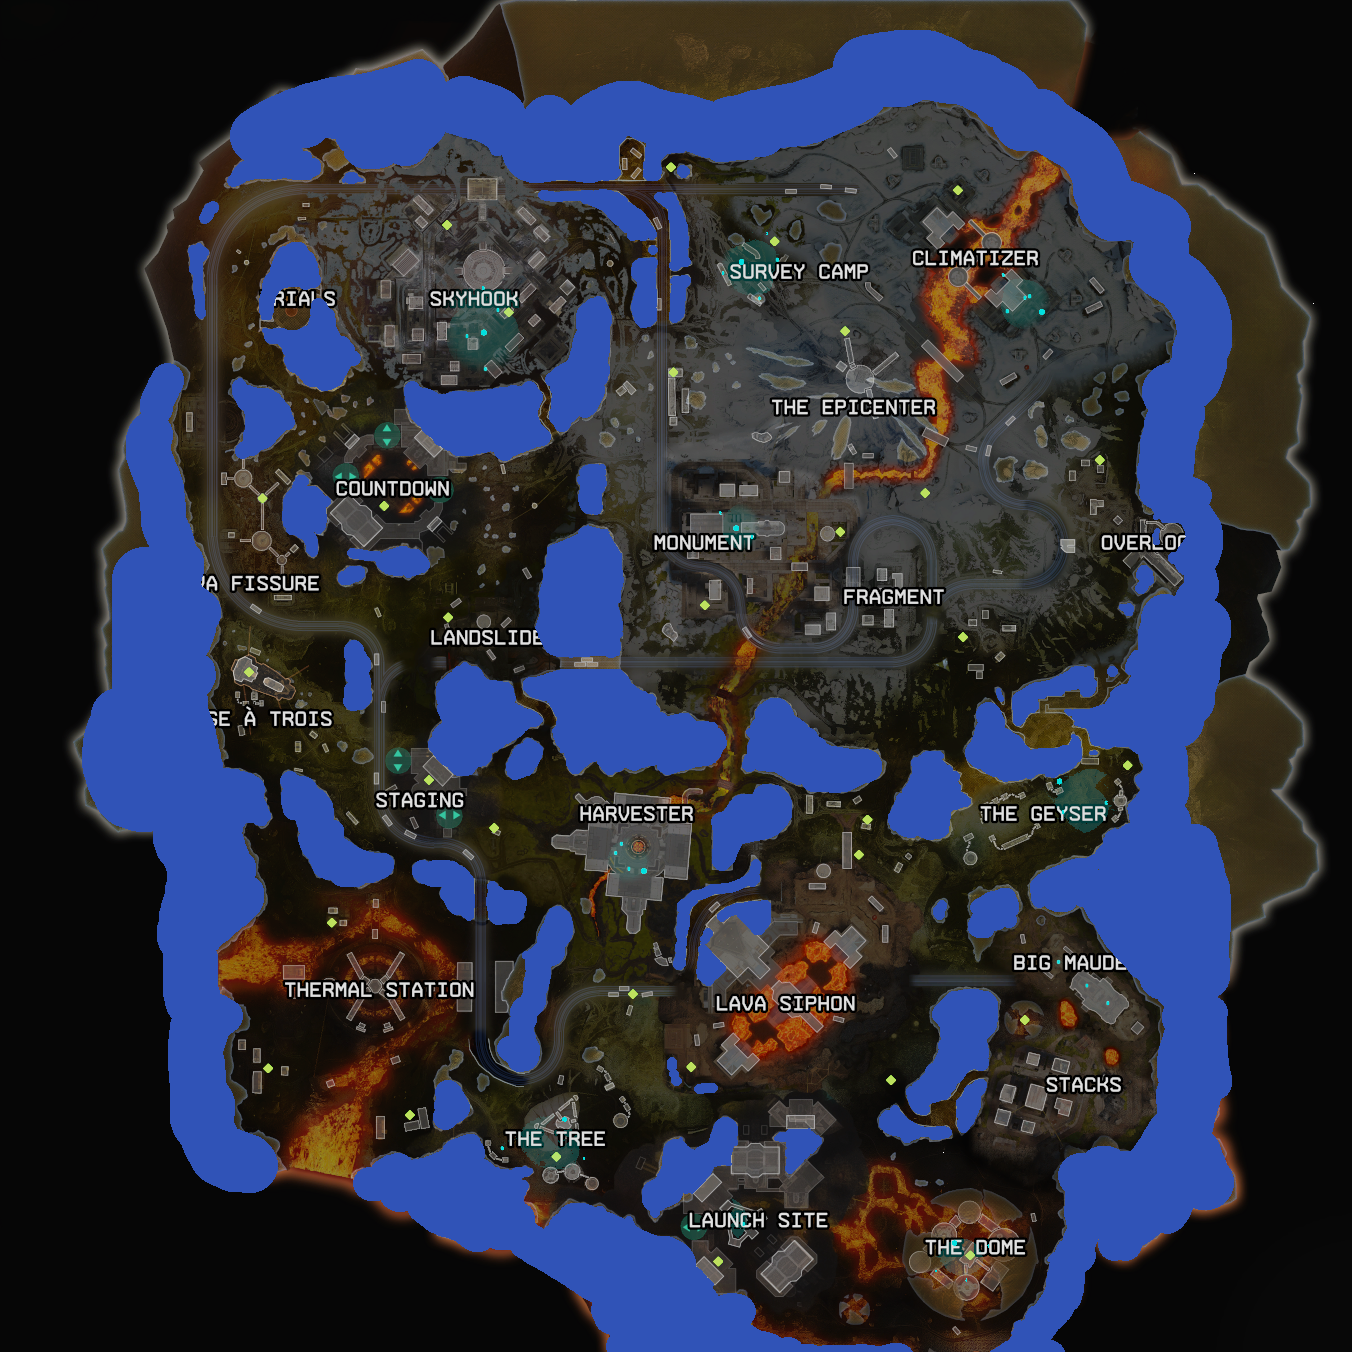
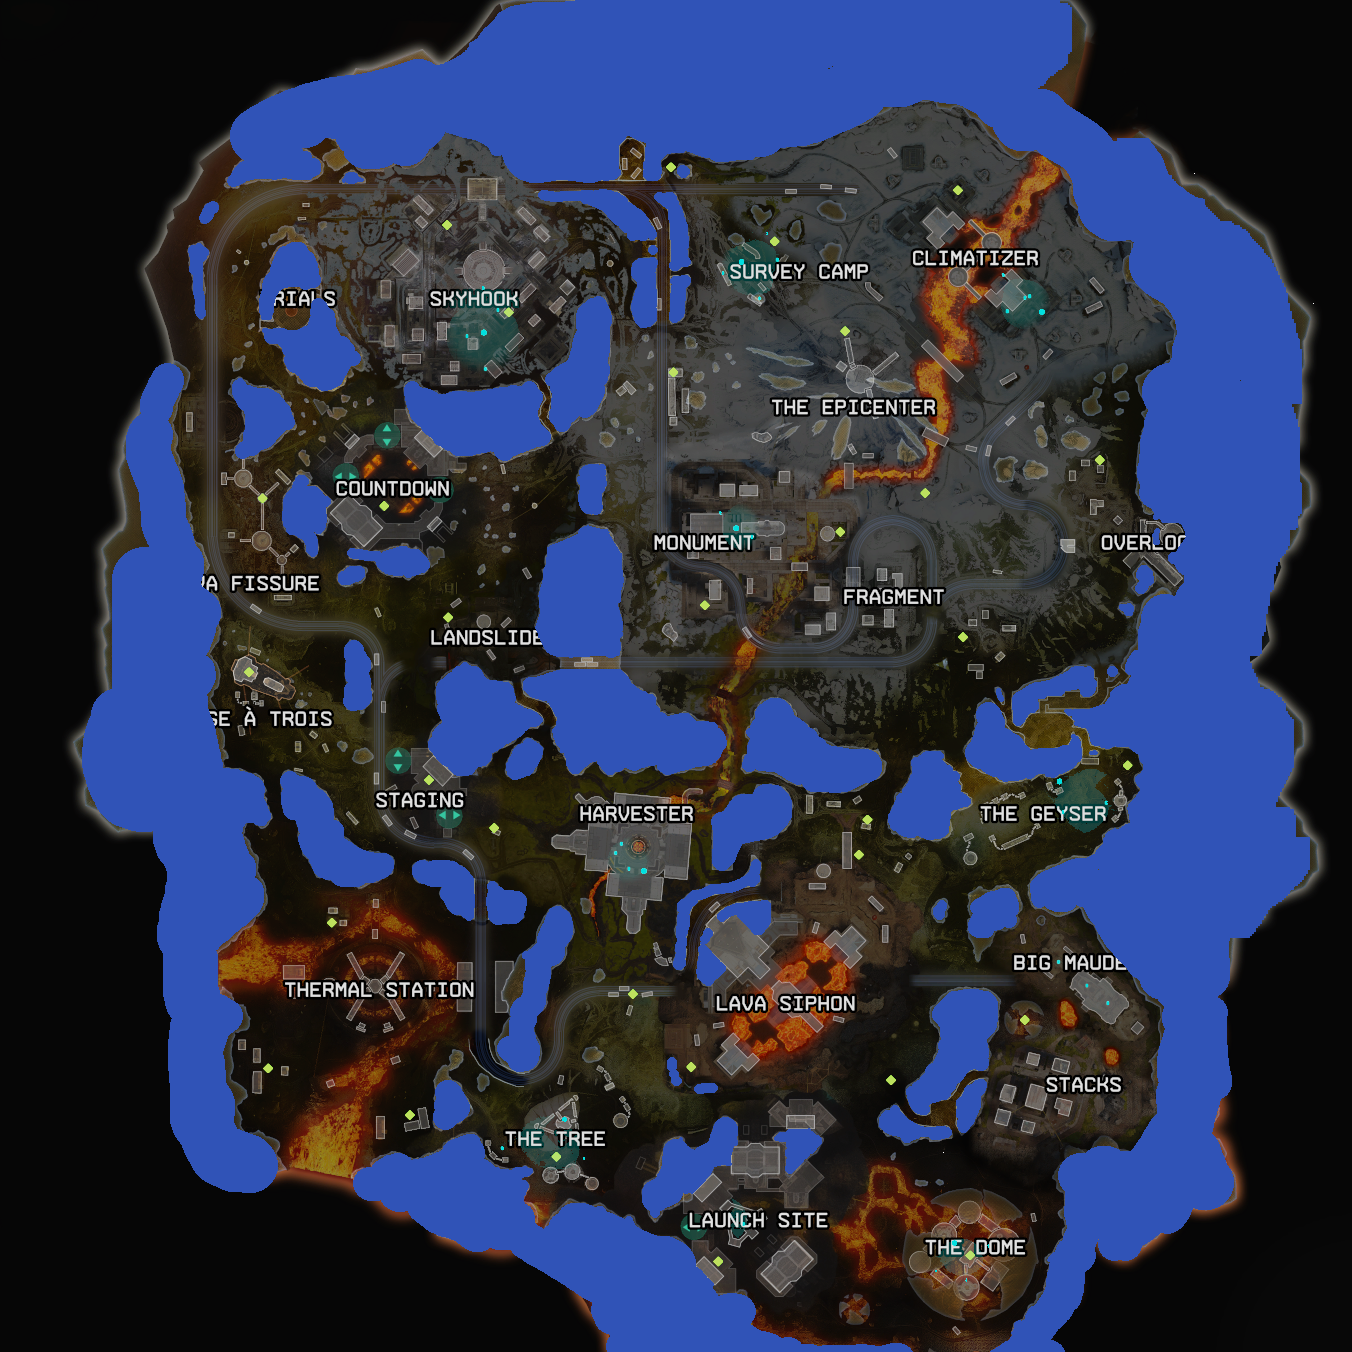
Laid the groundwork for traffic.     -   Laid the groundwork for traffic.     -   Improved the crowded map.

Changed region(s): [[0.8077, 0.0932, 0.9941, 0.7145], [0.3107, 0.0, 0.8077, 0.0932]]

diff --git a/code/InvalidSpace.cs b/code/InvalidSpace.cs
@@ -13,12 +13,14 @@ class InvalidSpace
     const string we_elevationPath = $"{DataSource.folder_Space}WE/Space_Elevation.png";
     const string we_hazardPath = $"{DataSource.folder_Space}WE/Space_Hazard.png";
     const string we_partialOOBPath = $"{DataSource.folder_Space}WE/Space_PartialOOB.png";
-    const string we_crowdedPath = $"{DataSource.folder_Space}WE/Space_Crowded.png";
+    const string we_crowdedPath = $"{DataSource.folder_Cache}WE_Space_Crowded.png";
+    const string we_outsidePath = $"{DataSource.folder_Space}WE/Space_Outside_Handmade.png";
 
     const string sp_elevationPath = $"{DataSource.folder_Space}SP/Space_Elevation.png";
     const string sp_hazardPath = $"{DataSource.folder_Space}SP/Space_Hazard.png";
     const string sp_partialOOBPath = $"{DataSource.folder_Space}SP/Space_PartialOOB.png";
-    const string sp_crowdedPath = $"{DataSource.folder_Space}SP/Space_Crowded.png";
+    const string sp_crowdedPath = $"{DataSource.folder_Cache}SP_Space_Crowded.png";
+    const string sp_outsidePath = $"{DataSource.folder_Space}SP/Space_Outside_Handmade.png";
 
 
     //const string bannedPath = $"{DataSource.folder_Space}Banned.png";
@@ -32,11 +34,16 @@ class InvalidSpace
     readonly Bitmap partialOOB;
     static readonly Color partialOOBColor = Color.FromArgb(85, 32, 115);
 
+    readonly Bitmap outside;
+    static readonly Color outsideColor = Color.FromArgb(157, 233, 74);
+
     readonly Bitmap banned;
     static readonly Color bannedColor = Color.FromArgb(Color.Red.R, Color.Red.G, Color.Red.B);
 
     readonly Bitmap crowded;
     static readonly Color crowdedColor = Color.FromArgb(Color.GreenYellow.R, Color.GreenYellow.G, Color.GreenYellow.B);
+
+
 
     public InvalidSpace(string map)
         : 
@@ -44,19 +51,27 @@ class InvalidSpace
             map == "WE" ? we_hazardPath : sp_hazardPath, 
             map == "WE" ? we_elevationPath : sp_elevationPath, 
             map == "WE" ? we_partialOOBPath : sp_partialOOBPath, 
+            map == "WE" ? we_outsidePath : sp_outsidePath,
             DataSource.LoadInvalidZones(map),
             map)
     {}
 
-    private InvalidSpace(string hazardPath, string elevationPath, string partialOOBPath, Bitmap banned, string map)
-        : this(new Bitmap(hazardPath), new Bitmap(elevationPath), new Bitmap(partialOOBPath), banned, map)
+    private InvalidSpace(string hazardPath, string elevationPath, string partialOOBPath, string outsidePath, Bitmap banned, string map)
+        : this(
+            new Bitmap(hazardPath), 
+            new Bitmap(elevationPath), 
+            new Bitmap(partialOOBPath), 
+            new Bitmap(outsidePath), 
+            banned, 
+            map)
     {}
 
-    private InvalidSpace(Bitmap hazard, Bitmap elevation, Bitmap partialOOB, Bitmap banned, string map)
+    private InvalidSpace(Bitmap hazard, Bitmap elevation, Bitmap partialOOB, Bitmap outside, Bitmap banned, string map)
     {
         this.hazard = hazard;
         this.elevation = elevation;
         this.partialOOB = partialOOB;
+        this.outside = outside;
         this.banned = banned;
 
         string crowdedPath = map == "WE" ? we_crowdedPath : sp_crowdedPath;
@@ -104,6 +119,8 @@ class InvalidSpace
             return false;
         if (elevation.GetPixel(x, y) == elevationColor)
             return false;
+        if (IsOutside(x, y))
+            return false;
 
 
         return true;
@@ -128,6 +145,11 @@ class InvalidSpace
         return true;
     }
 
+    public bool IsOutside(int x, int y)
+    {
+        return this.outside.GetPixel(x, y) == outsideColor;
+    }
+
     public bool IsCrowded(int x, int y)
     {
         return this.crowded.GetPixel(x, y) == crowdedColor;
@@ -136,8 +158,8 @@ class InvalidSpace
     private bool IsCrowded_Expensive(int x, int y)
     {
 
-        if (!CanEnd(x, y))  //  maybe chage this?
-            return false;
+        if (IsOutside(x, y))  //  maybe chage this? changed it!, however its way more exspansive now
+            return true;
                     
         double radius = DataSource.we_ringRadius5;
 
@@ -186,13 +208,16 @@ class InvalidSpace
     //      and if the majority of the ring is playable
     public bool IsValidCircle(Circle finalRing)
     {
+        return this.IsValidCircle(finalRing.X, finalRing.Y);
+    }
+    public bool IsValidCircle(int x, int y)
+    {
 
-        if (!CanEnd(finalRing.X, finalRing.Y))
+        if (!CanEnd(x, y))
             return false;
 
-        return !this.IsCrowded(finalRing.X, finalRing.Y);
+        return !this.IsCrowded(x, y);
     }
-
 
     public void DrawCombined(Bitmap canvas)
     {
@@ -201,18 +226,11 @@ class InvalidSpace
         {
             if (IsPlayable(x, y))
             {
-                if (CanEnd(x, y))
-                {
-                    if (IsCrowded(x, y))
-                    {
-                        canvas.SetPixel(x, y, crowdedColor);
-
-                    }
-                }
-                else
-                {
+                if (IsCrowded(x, y))
+                    canvas.SetPixel(x, y, crowdedColor);
+                else if (!CanEnd(x, y))
                     canvas.SetPixel(x, y, Color.Red);
-                }
+                
             }
             else
             {

diff --git a/code/Traffic.cs b/code/Traffic.cs
@@ -1,0 +1,111 @@
+#pragma warning disable CA1416
+
+using System.Drawing;
+using System.Drawing.Imaging;
+
+class Traffic
+{
+
+    
+    public const string path = DataSource.folder_Cache + "Traffic.png";
+    public const int iterations = 15;
+    public const int pixelTravelDistance = 150;
+    private static Random r = new Random();
+    
+
+    private Bitmap image;
+
+
+
+    public Traffic(InvalidSpace space)
+    {
+        // if (File.Exists(path))
+        //     this.image = new Bitmap(path);
+        // else
+            this.image = GenerateTrafficMap(space);
+    }
+
+    //  will cache automaticly cache the results
+    public static Bitmap GenerateTrafficMap(InvalidSpace space)
+    {
+        Bitmap image = new Bitmap(DataSource.mapResolution.Width, DataSource.mapResolution.Height);
+        image = Iterate(image, space, 0);
+        
+
+
+        image.Save(path, ImageFormat.Png);  //  this will cache the final image, the fragments may be found in the fragment folder
+        return image;
+    }
+
+    private static Bitmap Iterate(Bitmap image, InvalidSpace space, int depth, int iterations = iterations)
+    {
+
+        if (depth >= iterations)
+            return image;
+
+        Console.WriteLine($"     Iteration depth : {depth}");
+
+
+        foreach (int value in Enumerable.Range(0, image.Width * image.Height).OrderBy(x => r.Next()))
+        {
+            int y = value / image.Width;
+            int x = value % image.Width;
+            if (space.IsValidCircle(x, y))
+            {
+                PixelTravel(image, x, y, 0);
+            }
+
+        }
+
+        image.Save(DataSource.folder_Fragments + $"Traffic_{depth}.png", ImageFormat.Png);
+
+        return Iterate(image, space, ++depth, iterations);
+    }
+
+    static readonly VecPoint center = new VecPoint(DataSource.mapResolution.Width / 2, DataSource.mapResolution.Height / 2);
+    private static void PixelTravel(Bitmap trafficMap, int x, int y, int depth, int iterations = pixelTravelDistance)
+    {
+
+        if (depth >= iterations)
+            return;
+
+        if (x < center.X)
+            x += 2;
+        else
+            x -= 2;
+        if (y < center.Y)
+            y += 2;
+        else
+            y -= 2;
+
+        int lowestCongestion = 256;
+
+        int xOffset = 0, yOffset = 0;
+
+        for (int yDiff = -1; yDiff < 2; yDiff++)
+        for (int xDiff = -1; xDiff < 2; xDiff++)
+        {
+            int congestion = trafficMap.GetPixel(x + xDiff, y + yDiff).R;
+            if (congestion < lowestCongestion)
+            {
+                congestion = lowestCongestion;
+                xOffset = xDiff;
+                yOffset = yDiff;
+            }
+        }
+
+        //  leave trail
+        {
+            int congestion = Math.Min(trafficMap.GetPixel(x, y).R + 1, 255);
+            int vec_x = Math.Min(Math.Max(trafficMap.GetPixel(x, y).G + xOffset, 0), 255);
+            int vec_y = Math.Min(Math.Max(trafficMap.GetPixel(x, y).B + yOffset, 0), 255);
+
+            
+            trafficMap.SetPixel(x, y, Color.FromArgb(congestion, vec_x, vec_y));
+        }
+
+        PixelTravel(trafficMap, x, y, ++depth);
+
+    }
+
+}

diff --git a/code/Result.cs b/code/Result.cs
@@ -182,6 +182,12 @@ class Result
             $"Misses     |   {this.misses}    |   {medianMisses}   |   {avgMisses}\n" +
             $"MarkedArea |   {this.markedArea}    |   {medianMarkedArea}   |   {avgMarkedArea}\n"
         ;
+        DrawText(infoImage, drawArea, drawText, 12);  
+         
+        drawArea = new Rectangle(image.Width - 260, 12 * 12, 260, image.Height - 12 * 12);
+        drawText = 
+            $"Detected Pattern : {this.methodUsed.ringPattern}\n"
+        ;
         DrawText(infoImage, drawArea, drawText, 12);    
 
         

diff --git a/code/Method.cs b/code/Method.cs
@@ -15,6 +15,7 @@ class Method
         floatPull,          //  45 
         halfMoonDoughnut,   //  acts like a half moon into a dounghnut
         delayedHardPull,    //  when all centers align along one line, strong indication that the zone has been impacted by lack of trafic
+        delayedSoftPull,    //  similar to delayedHardPull, except that pulls don't hard pull, indicated by no touching, can't predict this without a traffic map
         mimicPull           //  true counter pull
     }
 

diff --git a/code/Activity.cs b/code/Activity.cs
@@ -11,6 +11,17 @@ static class Activity
 
     public const string folder_Output = "Output/";
 
+    public static void PrepareCache()
+    {
+        InvalidSpace space_we = new InvalidSpace("WE");
+        InvalidSpace space_sp = new InvalidSpace("SP");
+        
+        //Traffic traffic = new Traffic(space_we);
+        
+
+    }
+
+
     public static List<Result> ProcessTestData(string map, string setName)
     {
 

diff --git a/code/Main.cs b/code/Main.cs
@@ -16,6 +16,8 @@ static class MainClass
 
         Console.WriteLine("Start");
 
+        //Activity.PrepareCache();
+
 
         List<Result> result_we_set0 = Activity.ProcessTestData("WE", "set0");
         List<Result> result_we_set1 = Activity.ProcessTestData("WE", "set1");
